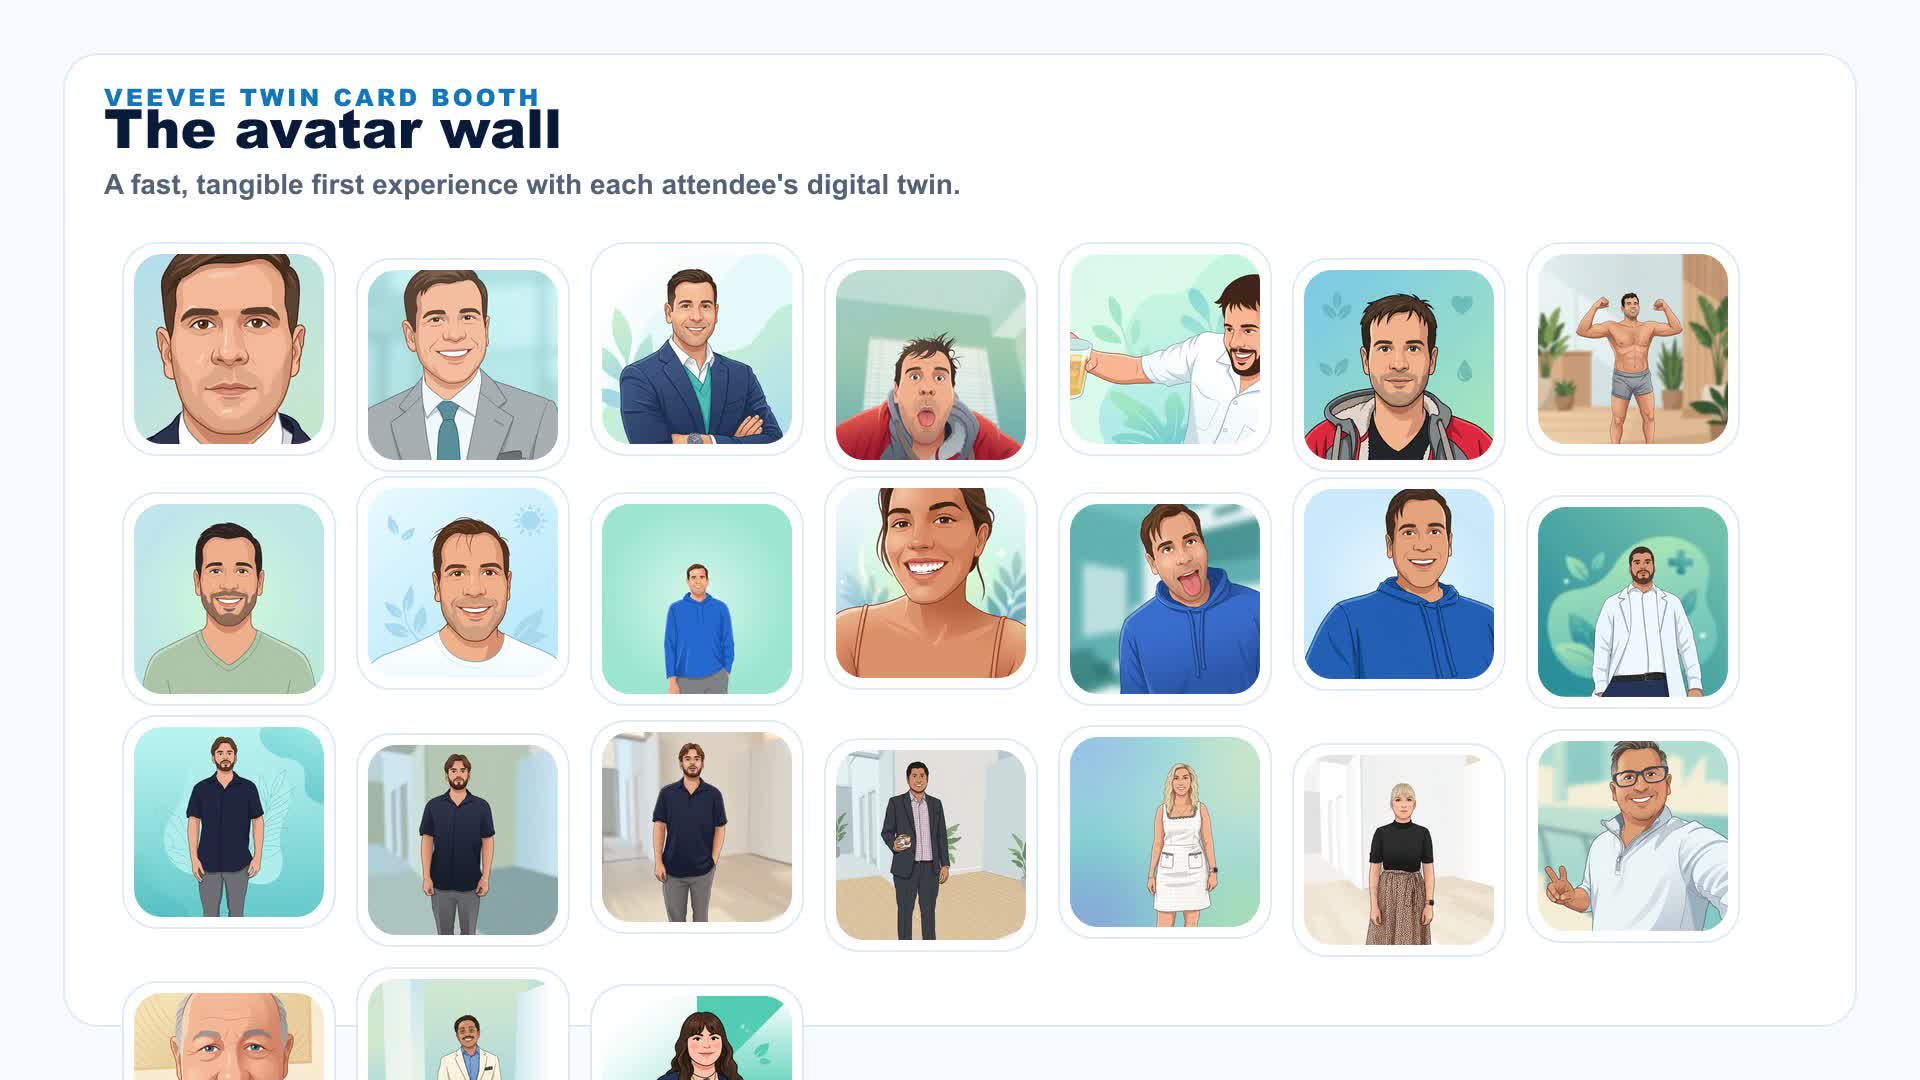
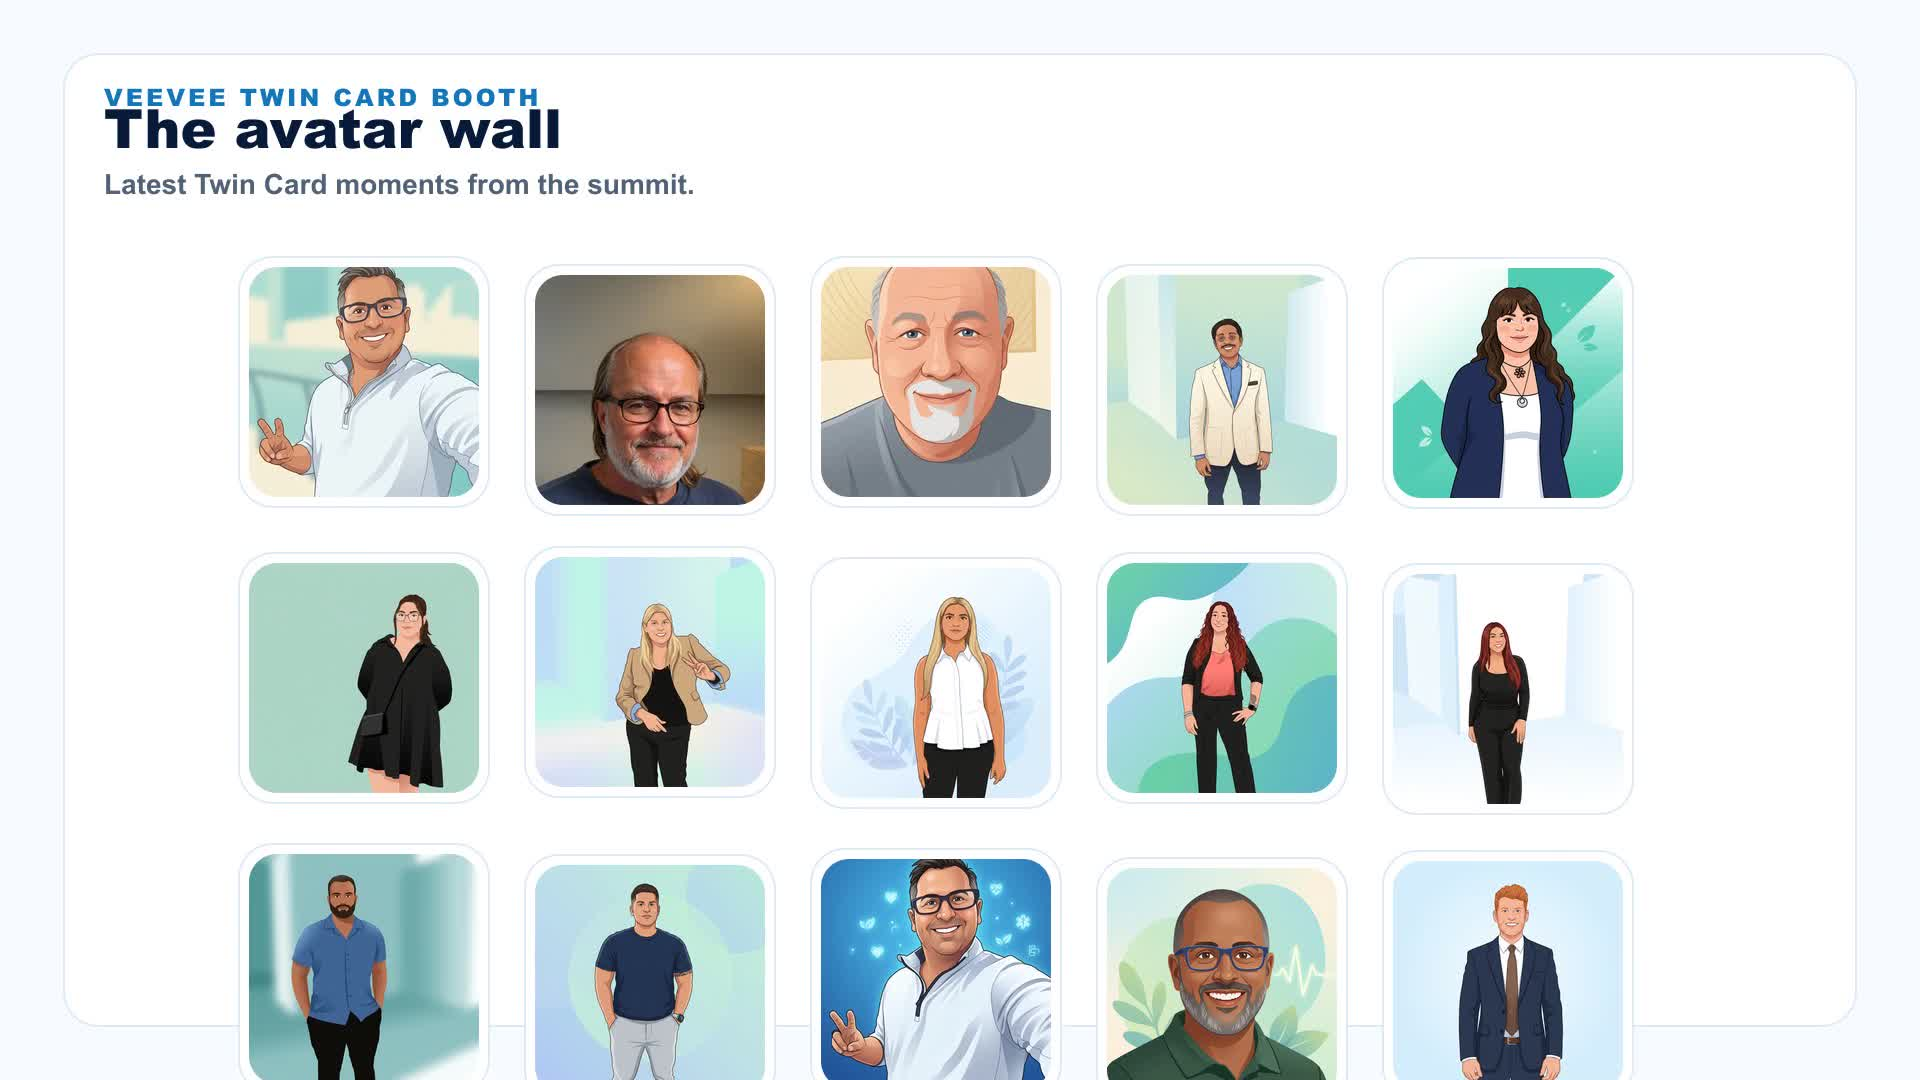
Shorten SWCA thank-you reel

diff --git a/src/pages/TwinDashboardPage.tsx b/src/pages/TwinDashboardPage.tsx
@@ -1125,7 +1125,7 @@ function PostEventAssetsTab({ cards }: { cards: TwinCardApiCard[] }) {
             <Flex justify="space-between" gap={4} align={{ base: "flex-start", md: "center" }} direction={{ base: "column", md: "row" }}>
               <Stack spacing={1}>
                 <Heading as="h3" size="md">SWCA Thank-You Reel</Heading>
-                <Text color="#516176">18-second avatar montage for post-event sharing.</Text>
+                <Text color="#516176">12-second latest-30 avatar montage for post-event sharing.</Text>
               </Stack>
               <Button as="a" href={thankYouReelUrl} target="_blank" rel="noreferrer" bg="#061b38" color="white" _hover={{ bg: "#0b2b57" }}>
                 Open MP4